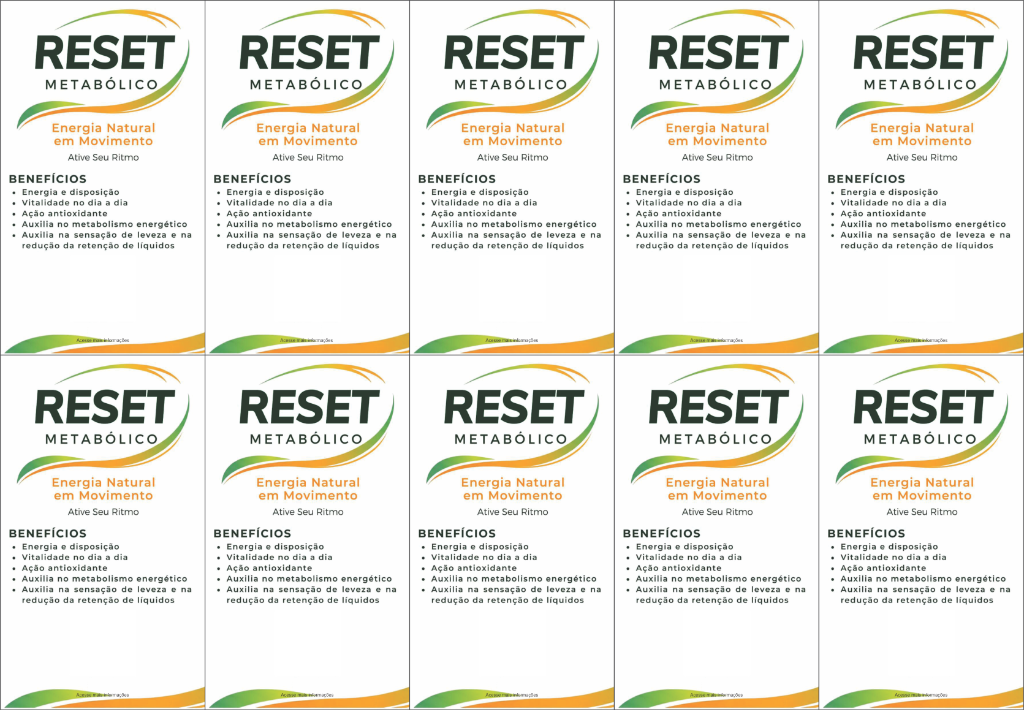
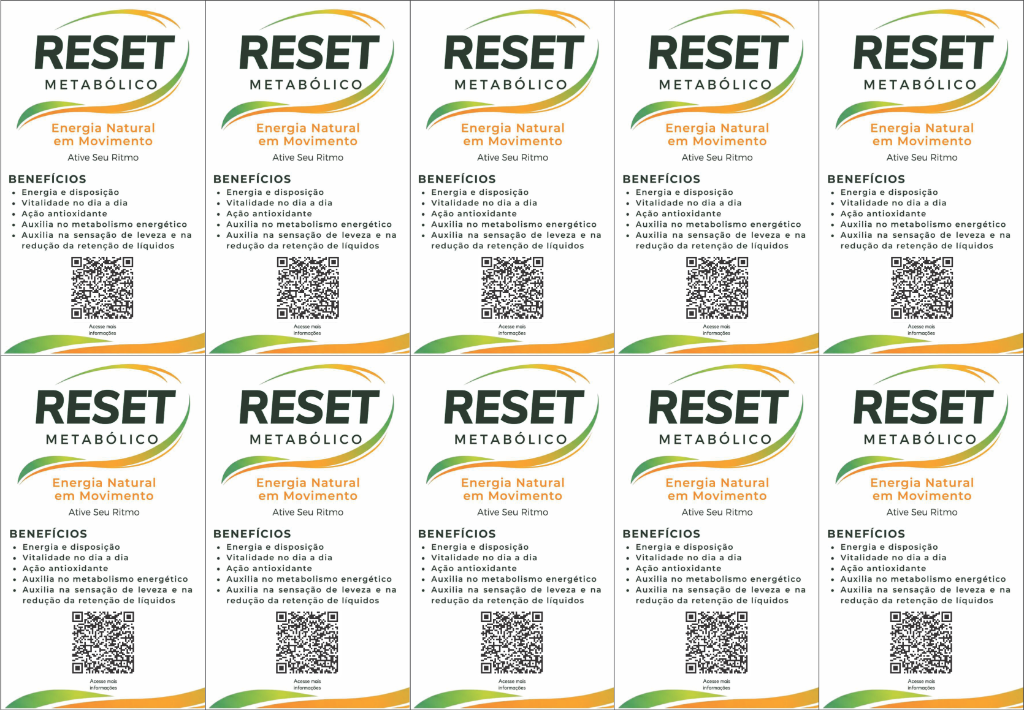
feat: nova imagem de adesivos com fundo branco e enquadramento perfeito do QR Code

diff --git a/painel.html b/painel.html
@@ -532,15 +532,22 @@
                 const largAdesivo = canvas.width / colunas;
                 const altAdesivo = canvas.height / linhas;
 
-                // AJUSTE FINO DO QR CODE PARA GARRAFINHA
-                const qrSize = largAdesivo * 0.29; 
+                // AJUSTE PRECISO DO QR CODE COM FUNDO BRANCO PERFEITO
+                const qrSize = largAdesivo * 0.36; // Cobre com nitidez a área do QR Code
                 const offsetX = (largAdesivo - qrSize) / 2;
-                const offsetY = altAdesivo * 0.715;
+                const offsetY = altAdesivo * 0.685;
+                const paddingFundo = 4; // Margem branca para enquadramento limpo e leitura fácil pela câmera
 
                 for(let l=0; l<linhas; l++) {
                     for(let c=0; c<colunas; c++) {
                         const x = (c * largAdesivo) + offsetX;
                         const y = (l * altAdesivo) + offsetY;
+
+                        // Desenha fundo branco limpo para garantia de leitura perfeita
+                        ctx.fillStyle = "#ffffff";
+                        ctx.fillRect(x - paddingFundo, y - paddingFundo, qrSize + (paddingFundo * 2), qrSize + (paddingFundo * 2));
+
+                        // Desenha o QR Code personalizado do consultor perfeitamente enquadrado
                         ctx.drawImage(qrImg, x, y, qrSize, qrSize);
                     }
                 }
